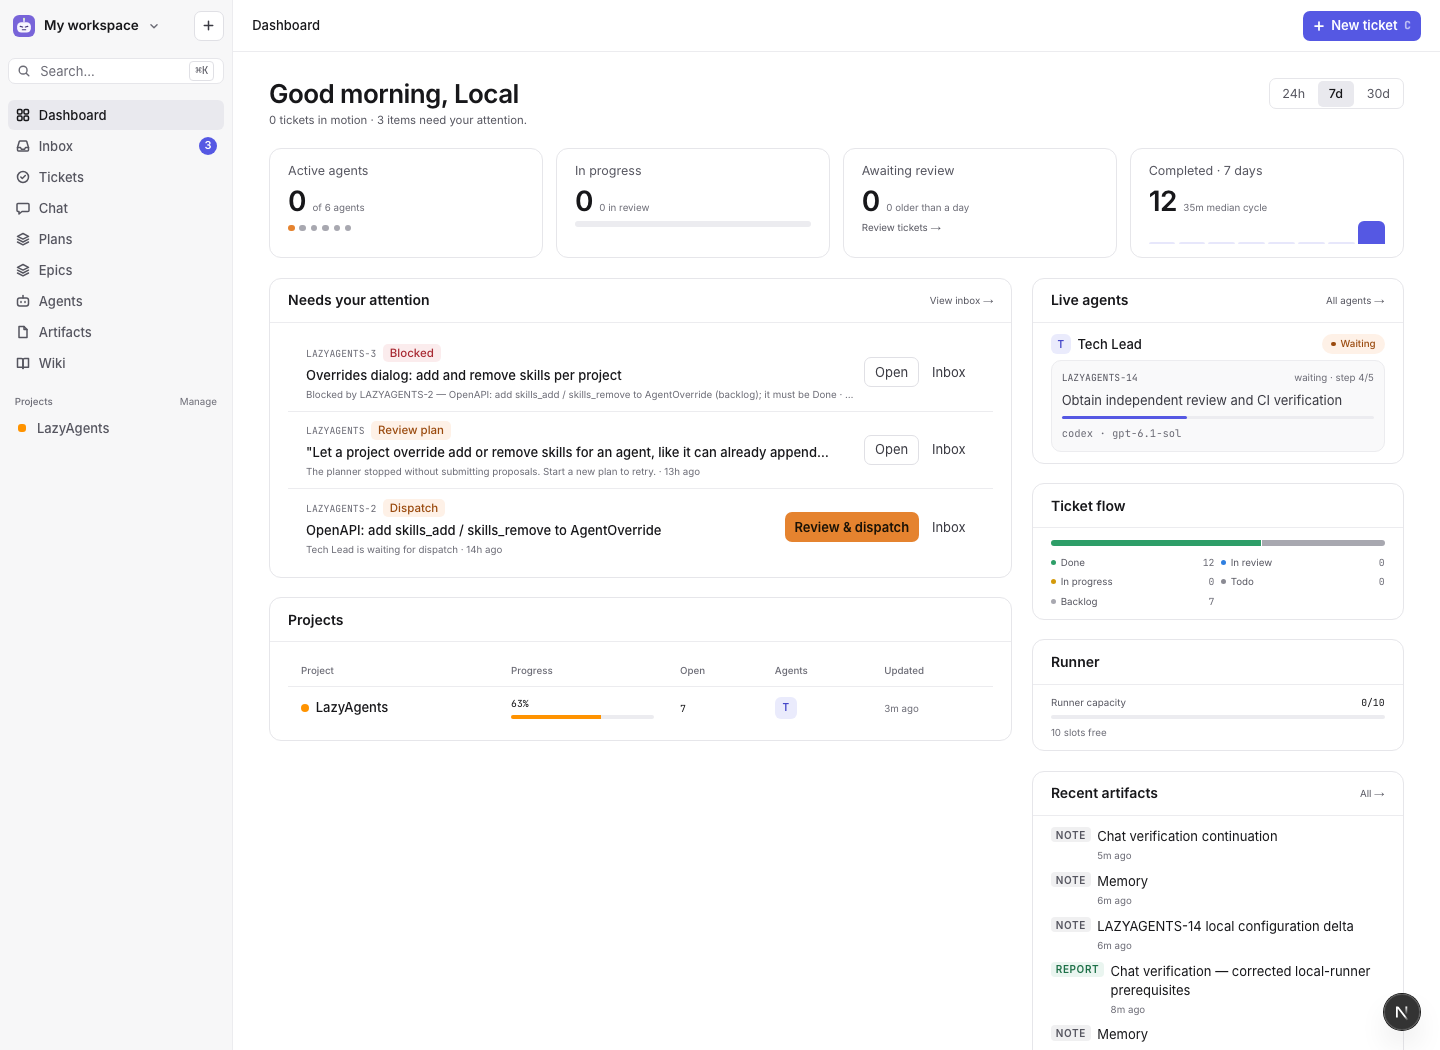
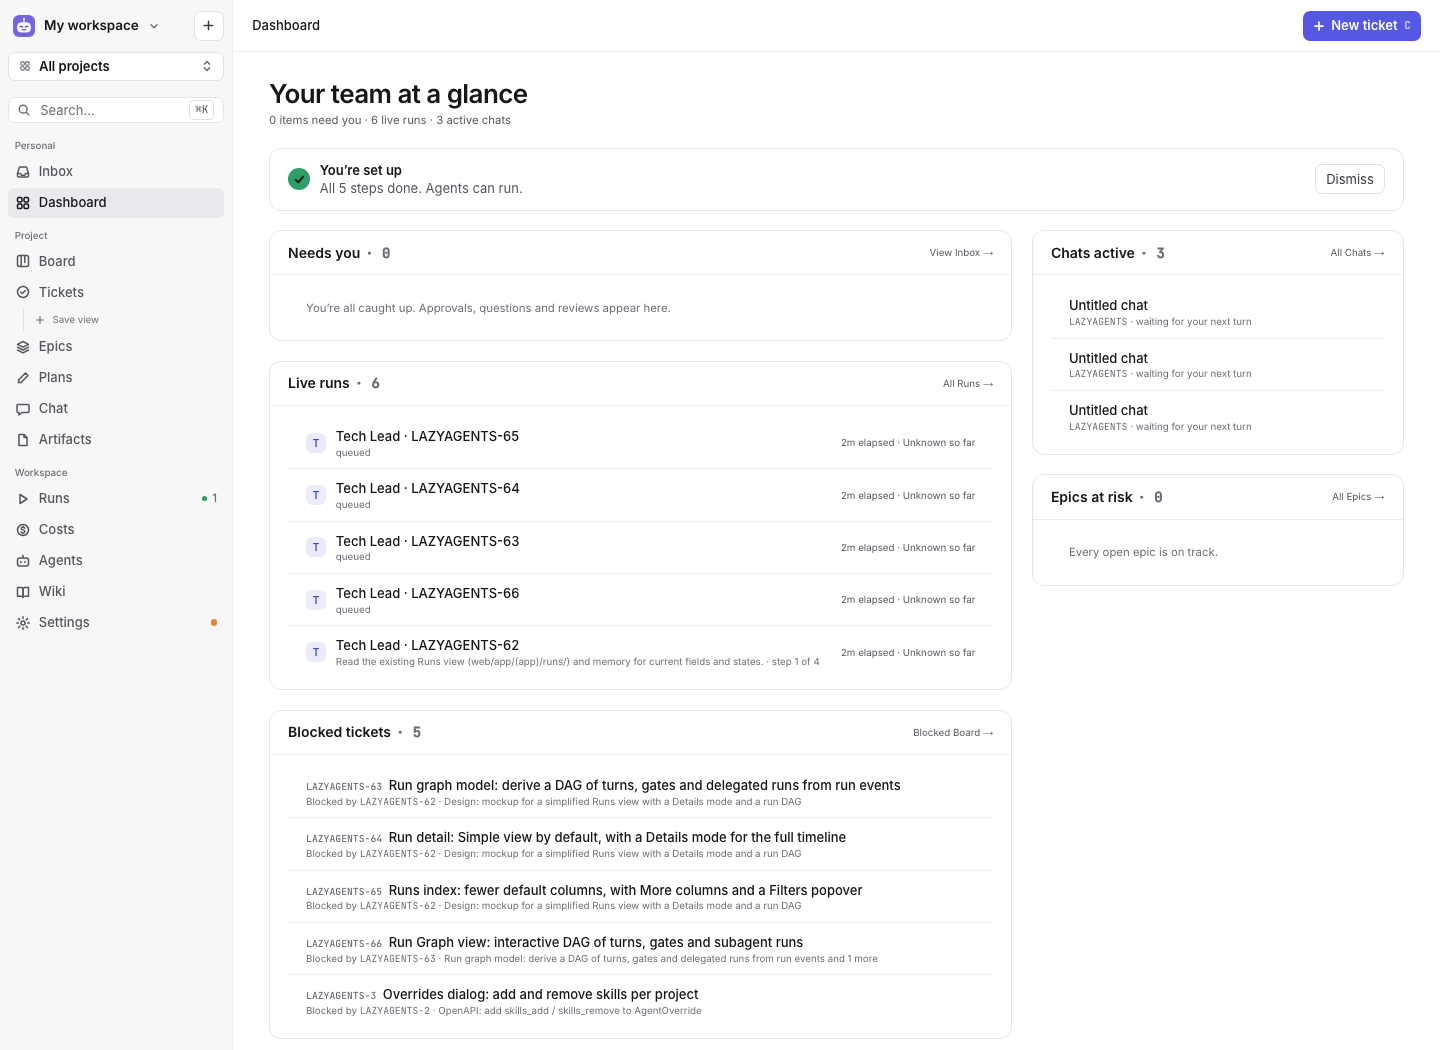
update README

diff --git a/README.md b/README.md
@@ -12,7 +12,7 @@
   <p><strong>Self-hosted</strong> &nbsp; / &nbsp; Claude Code · Codex · OpenCode &nbsp; / &nbsp; Automatic fallbacks &nbsp; / &nbsp; Human approvals</p>
 </div>
 
-![LazyAgents dashboard showing project progress, the review inbox, agent activity, and ticket flow](docs/images/homepage.png)
+![LazyAgents dashboard showing setup status, items that need you, live runs, blocked tickets, active chats, and epics at risk](docs/images/homepage.png)
 
 ## A shared harness for every model
 
